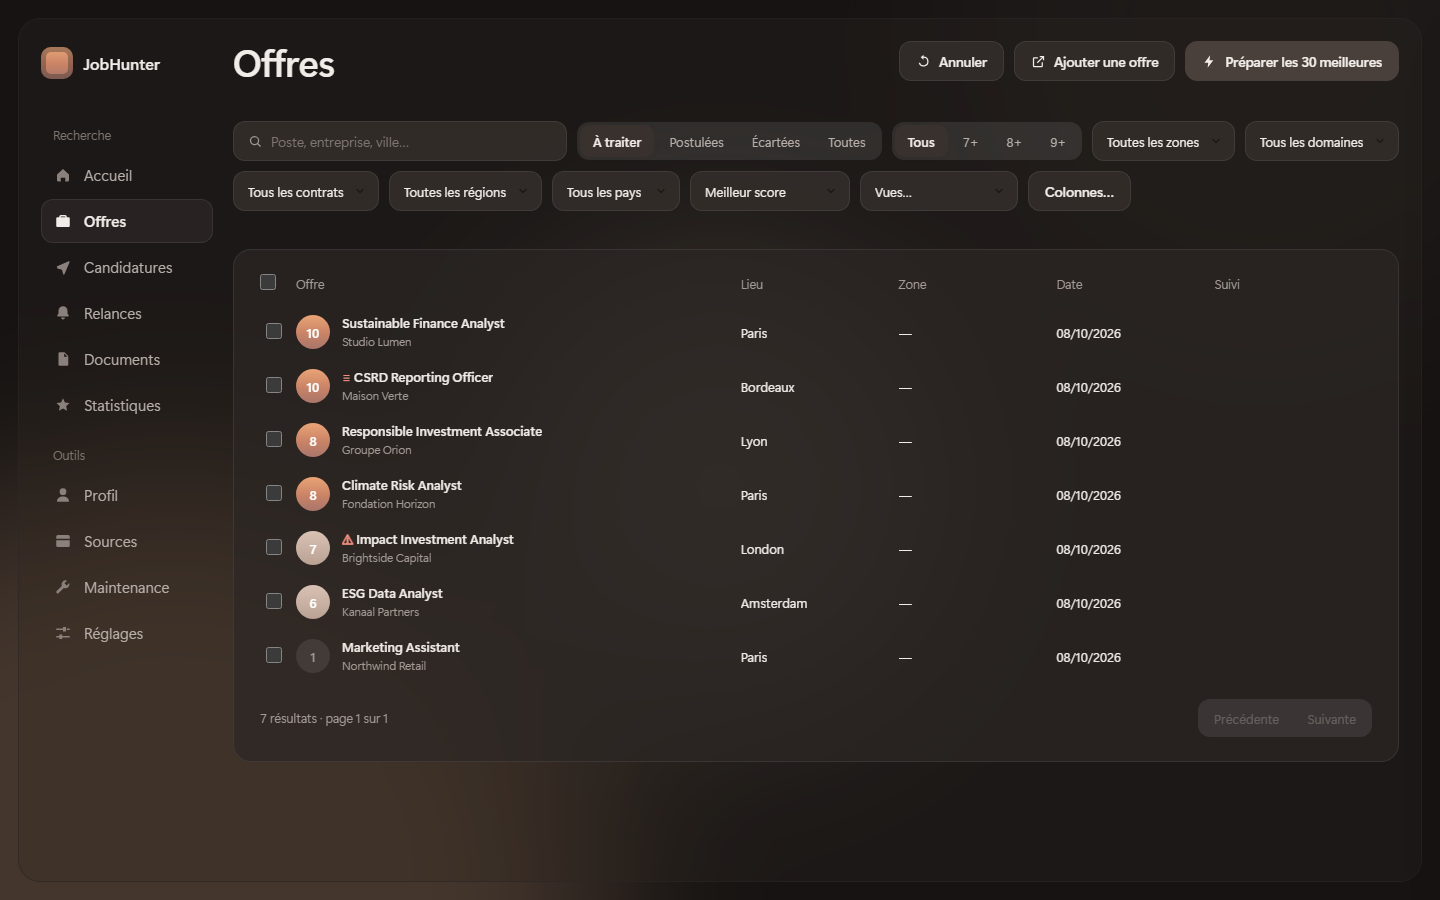
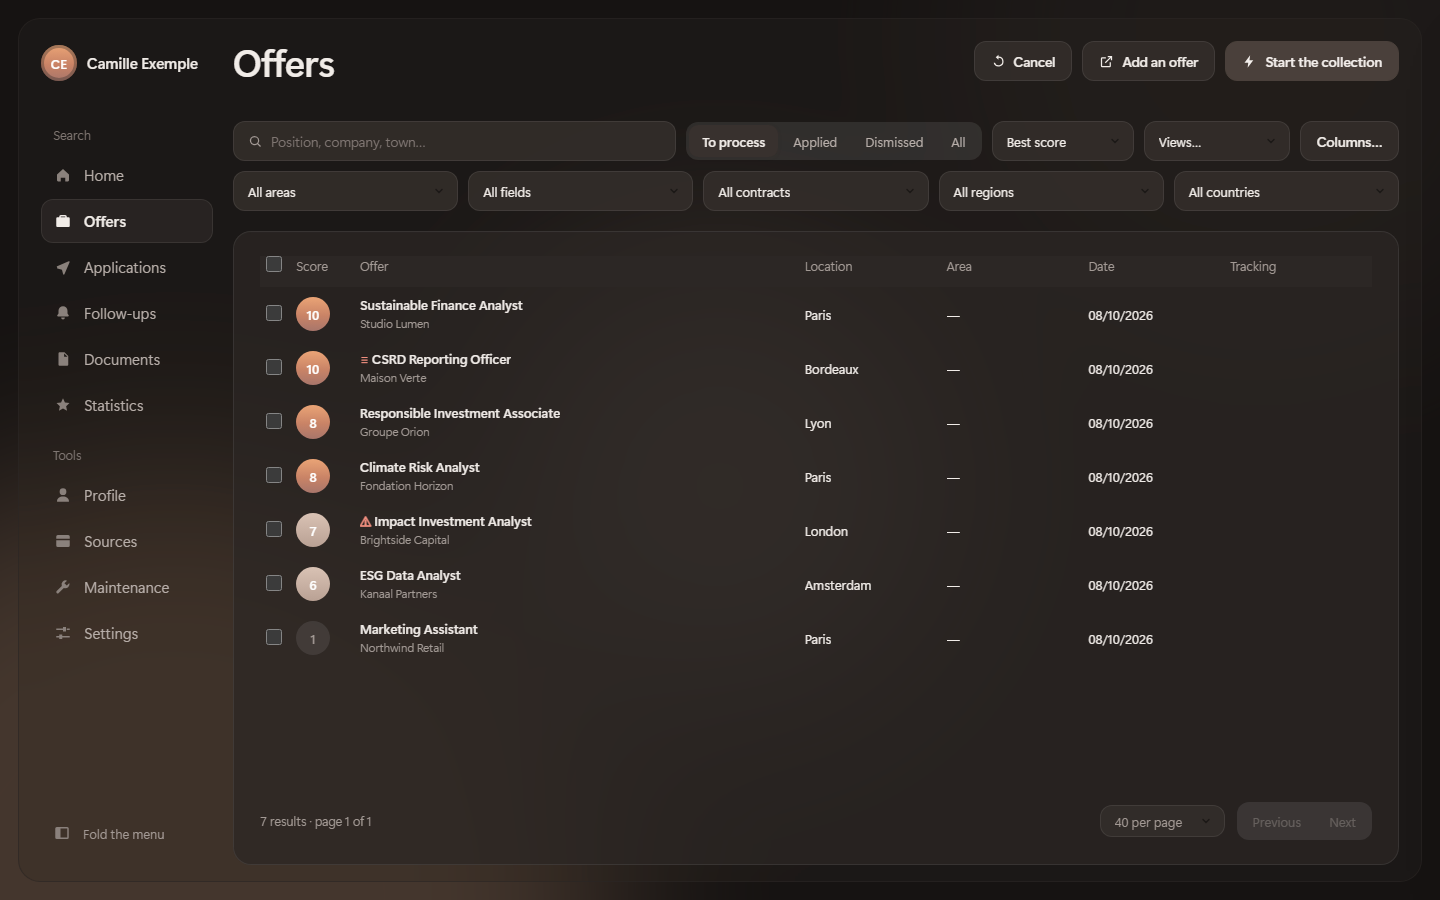
Screenshots: current web interface, French set for the Store
The Store shows the web interface (the app's window since 3.27), so the
capture tool now takes four of its screens (home, offers light and dark,
applications) and can skip the old desktop window (--web-seul), which
opens a real window on the screen. Captured on the fictitious profile in
English (README) and French (docs/store/screenshots_fr, French listing).

diff --git a/tools/screenshots.py b/tools/screenshots.py
@@ -10,10 +10,12 @@ chosen language and captures the window:
 - `offers.png`: the ranked offers, the first one selected (an application with its
   status history and its kept posting; one offer with a knock-out ⚠);
 - `letter.png`: an offer opened in full, its letter on the right;
-- `web_home.png`, `web_offers_dark.png`: the web interface (3.27), its home screen in
-  light mode and its offers in dark mode. The page runs in Playwright's Chromium, its
-  calls answered by the real `jobhunter.web.api.Api` on the same fictitious folder:
-  nothing of the screen behind is captured.
+- `web_home.png`, `web_offers_dark.png`, `web_offers.png`, `web_applications.png`:
+  the web interface — the application's window
+  since 3.27, and what the Microsoft Store shows — its screens in light mode, the
+  offers in dark mode too. The page runs in Playwright's Chromium, its calls answered
+  by the real `jobhunter.web.api.Api` on the same fictitious folder: nothing of the
+  screen behind is captured. `--web-seul` takes only these, without opening a window.
 
 Nothing of the user's own data is read: the folder is created in a temporary
 directory and `JOBHUNTER_RACINE` points to it. Windows only (screen capture by PIL).
@@ -231,9 +233,18 @@ window.pywebview = { api: new Proxy({}, { get: (_, nom) => (...args) => window._
 """
 
 
-def capturer_web(racine: Path, sortie: Path) -> None:
-    """The web interface's two screenshots, rendered headless (see the module's doc)."""
-    os.environ.update(JOBHUNTER_RACINE=str(racine))
+# (file, light or dark mode, screen) of the web interface's screenshots.
+ECRANS_WEB = (
+    ("web_home.png", "clair", "accueil"),
+    ("web_offers_dark.png", "sombre", "offres"),
+    ("web_offers.png", "clair", "offres"),
+    ("web_applications.png", "clair", "candidatures"),
+)
+
+
+def capturer_web(racine: Path, sortie: Path, langue: str = "en") -> None:
+    """The web interface's screenshots, rendered headless (see the module's doc)."""
+    os.environ.update(JOBHUNTER_RACINE=str(racine), JOBHUNTER_LANGUE=langue)
     os.environ.pop("JOBHUNTER_PRINCIPALE", None)
     from playwright.sync_api import sync_playwright
 
@@ -266,8 +277,8 @@ def capturer_web(racine: Path, sortie: Path) -> None:
             page.screenshot(path=str(sortie / nom))
             print("  ", sortie / nom)
 
-        photo("web_home.png", "clair", "accueil")
-        photo("web_offers_dark.png", "sombre", "offres")
+        for nom, mode, ecran in ECRANS_WEB:
+            photo(nom, mode, ecran)
         nav.close()
 
 
@@ -276,6 +287,7 @@ def main() -> int:
     a.add_argument("--lang", default="en", help="interface language: en, fr, de, es")
     a.add_argument("--out", default=str(REPO / "docs" / "screenshots"))
     a.add_argument("--garder", action="store_true", help="keep the fictitious folder")
+    a.add_argument("--web-seul", action="store_true", help="web screens only, no window")
     args = a.parse_args()
     sortie = Path(args.out).resolve()
     sortie.mkdir(parents=True, exist_ok=True)
@@ -287,8 +299,9 @@ def main() -> int:
         jobhunter(racine, "documents", "--top", "1")
         jobhunter(racine, "reposts")  # the Signal column: knock-outs
         jobhunter(racine, "postings")  # the posting kept for the application
-        capturer_web(racine, sortie)
-        capturer(racine, args.lang, sortie)
+        capturer_web(racine, sortie, args.lang)
+        if not args.web_seul:
+            capturer(racine, args.lang, sortie)
     finally:
         if args.garder:
             print("dossier fictif :", racine)

diff --git a/docs/store/listing.md b/docs/store/listing.md
@@ -64,8 +64,9 @@ Data kept on your computer
 - Price: free. Markets: all.
 - Age rating questionnaire: no user-generated content shared, no purchases, no
   location sharing → 3+.
-- Screenshots: `docs/screenshots/web_home.png`, `web_offers_dark.png`, `offers.png`,
-  `letter.png` (at least 1366×768 recommended).
+- Screenshots (1440×900, fictitious profile, `tools/screenshots.py --web-seul`):
+  French listing → `docs/store/screenshots_fr/`, English listing → `docs/screenshots/`
+  (`web_home.png`, `web_offers.png`, `web_offers_dark.png`, `web_applications.png`).
 - Capability `runFullTrust` justification: « Desktop application packaged from a
   Win32 program; it runs its own browser engine to read job sites and writes
   documents in the user's folder. »
